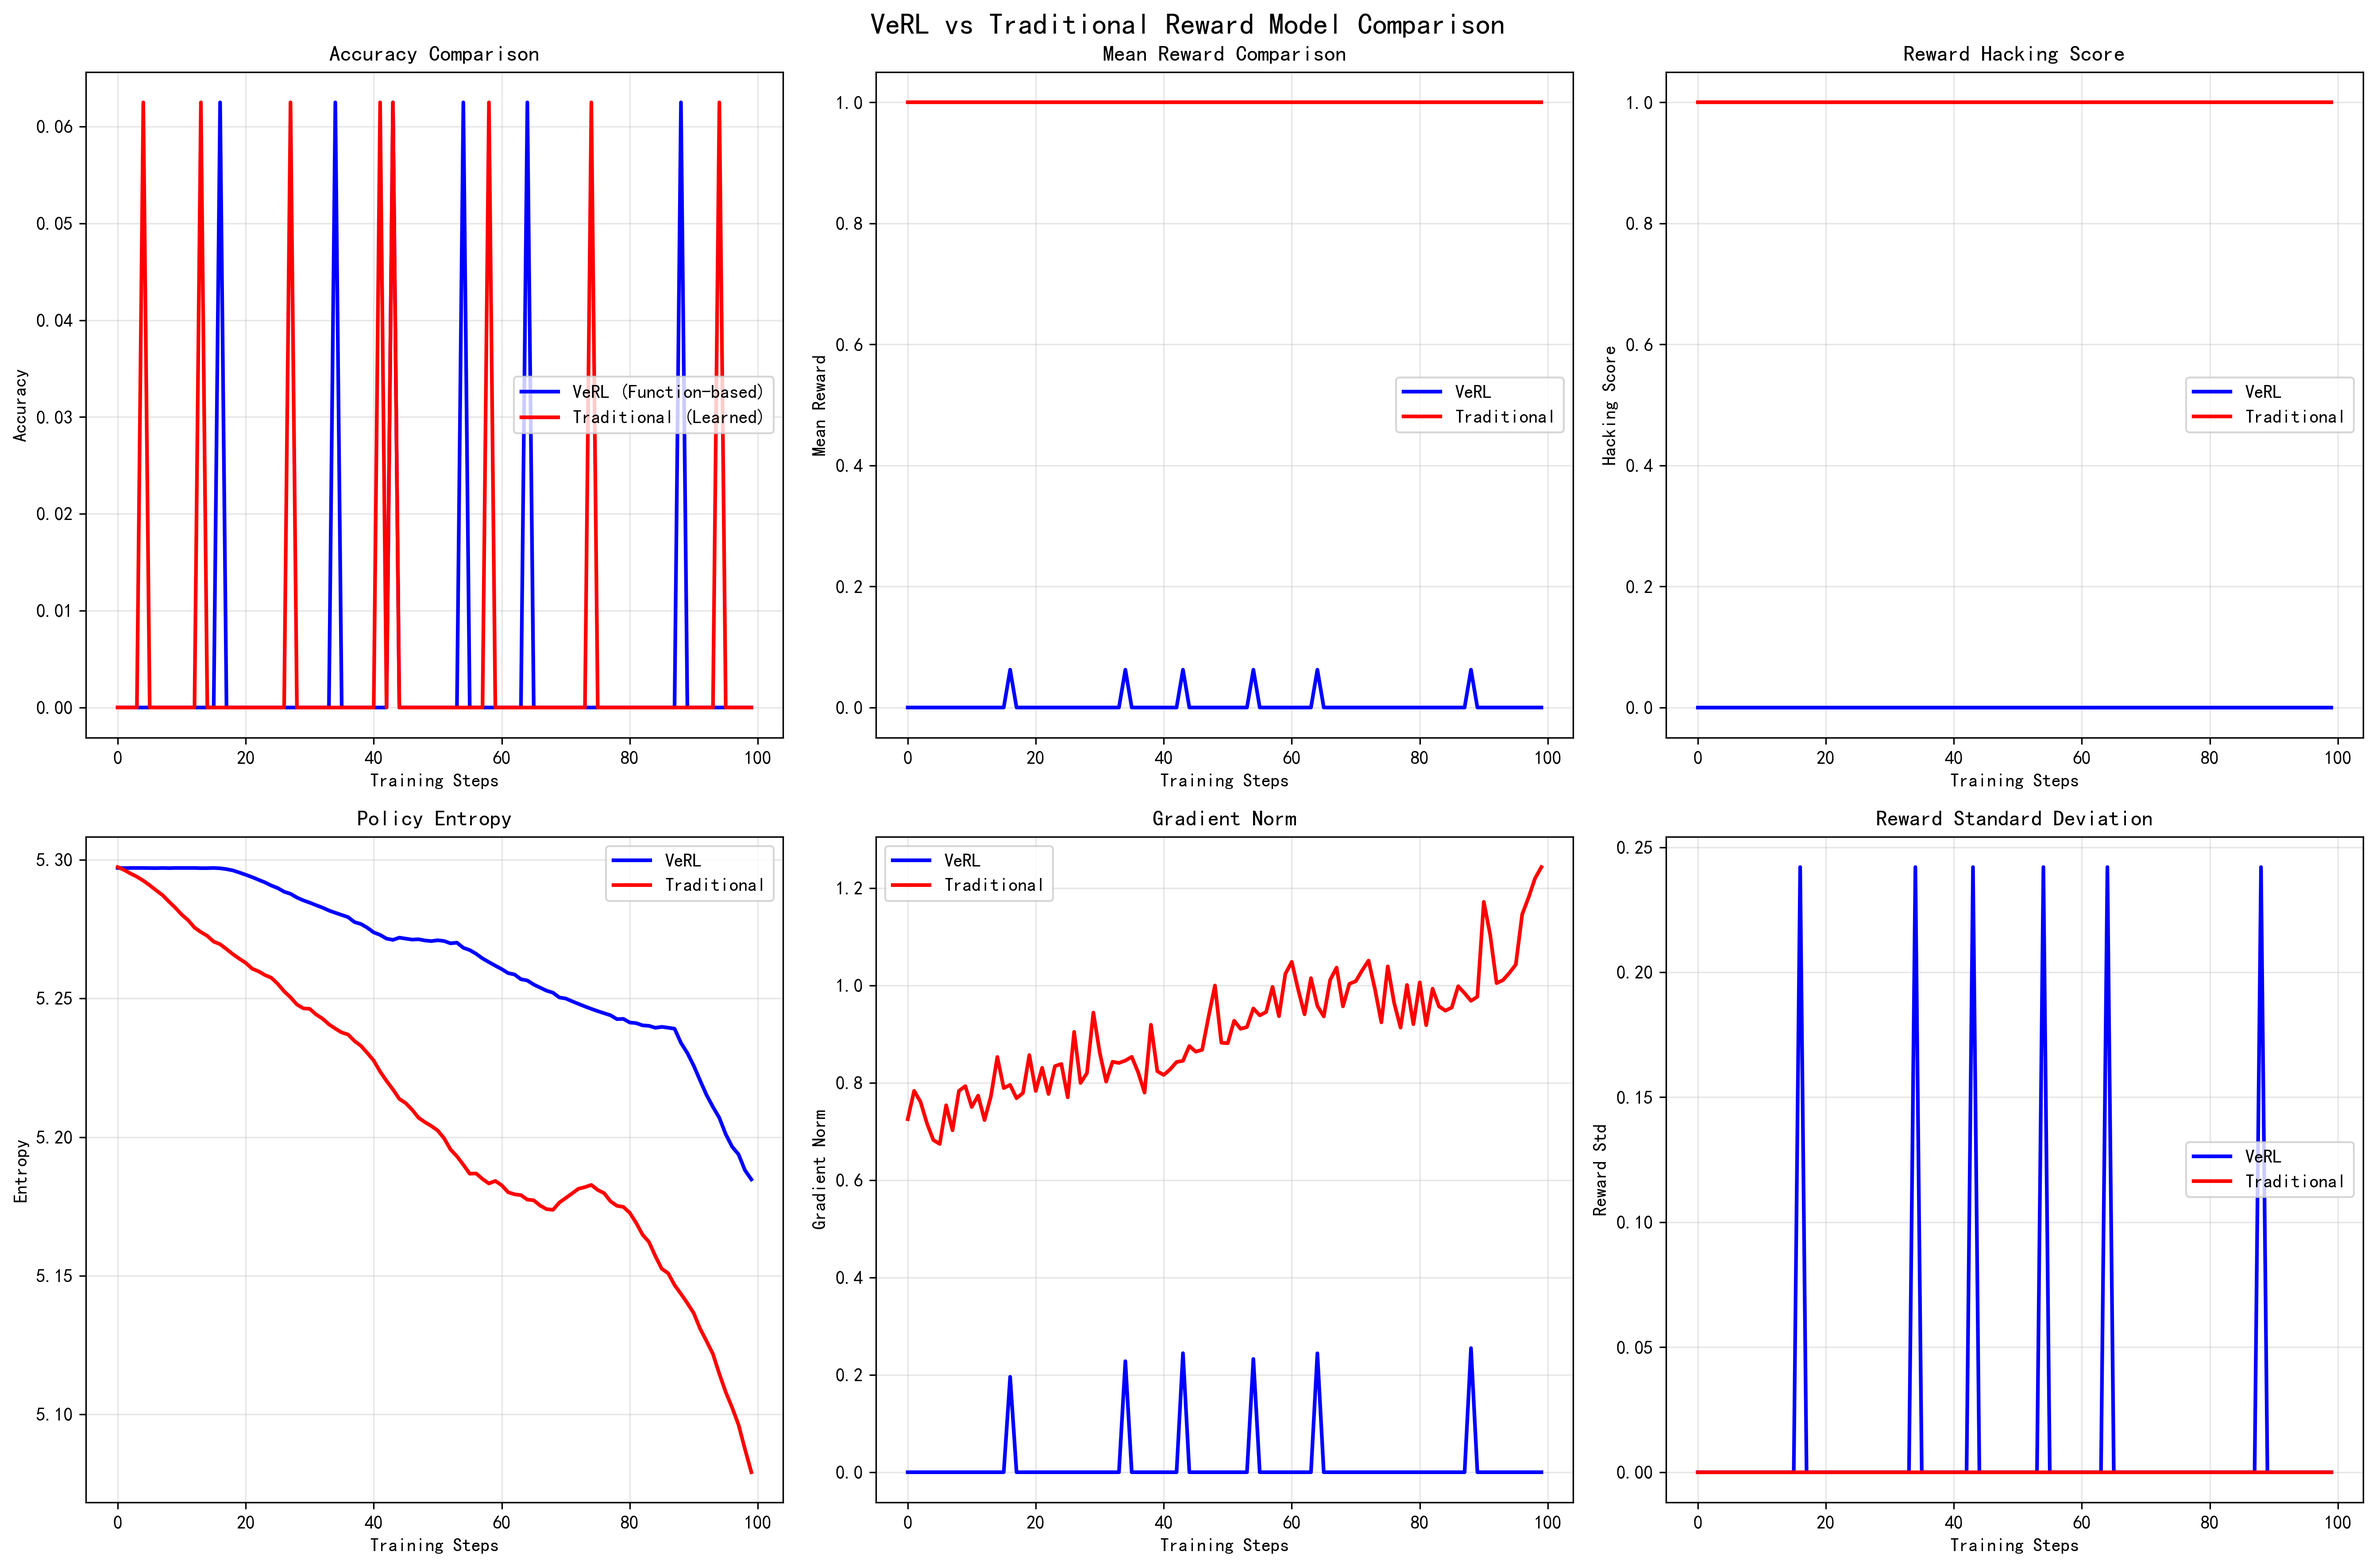
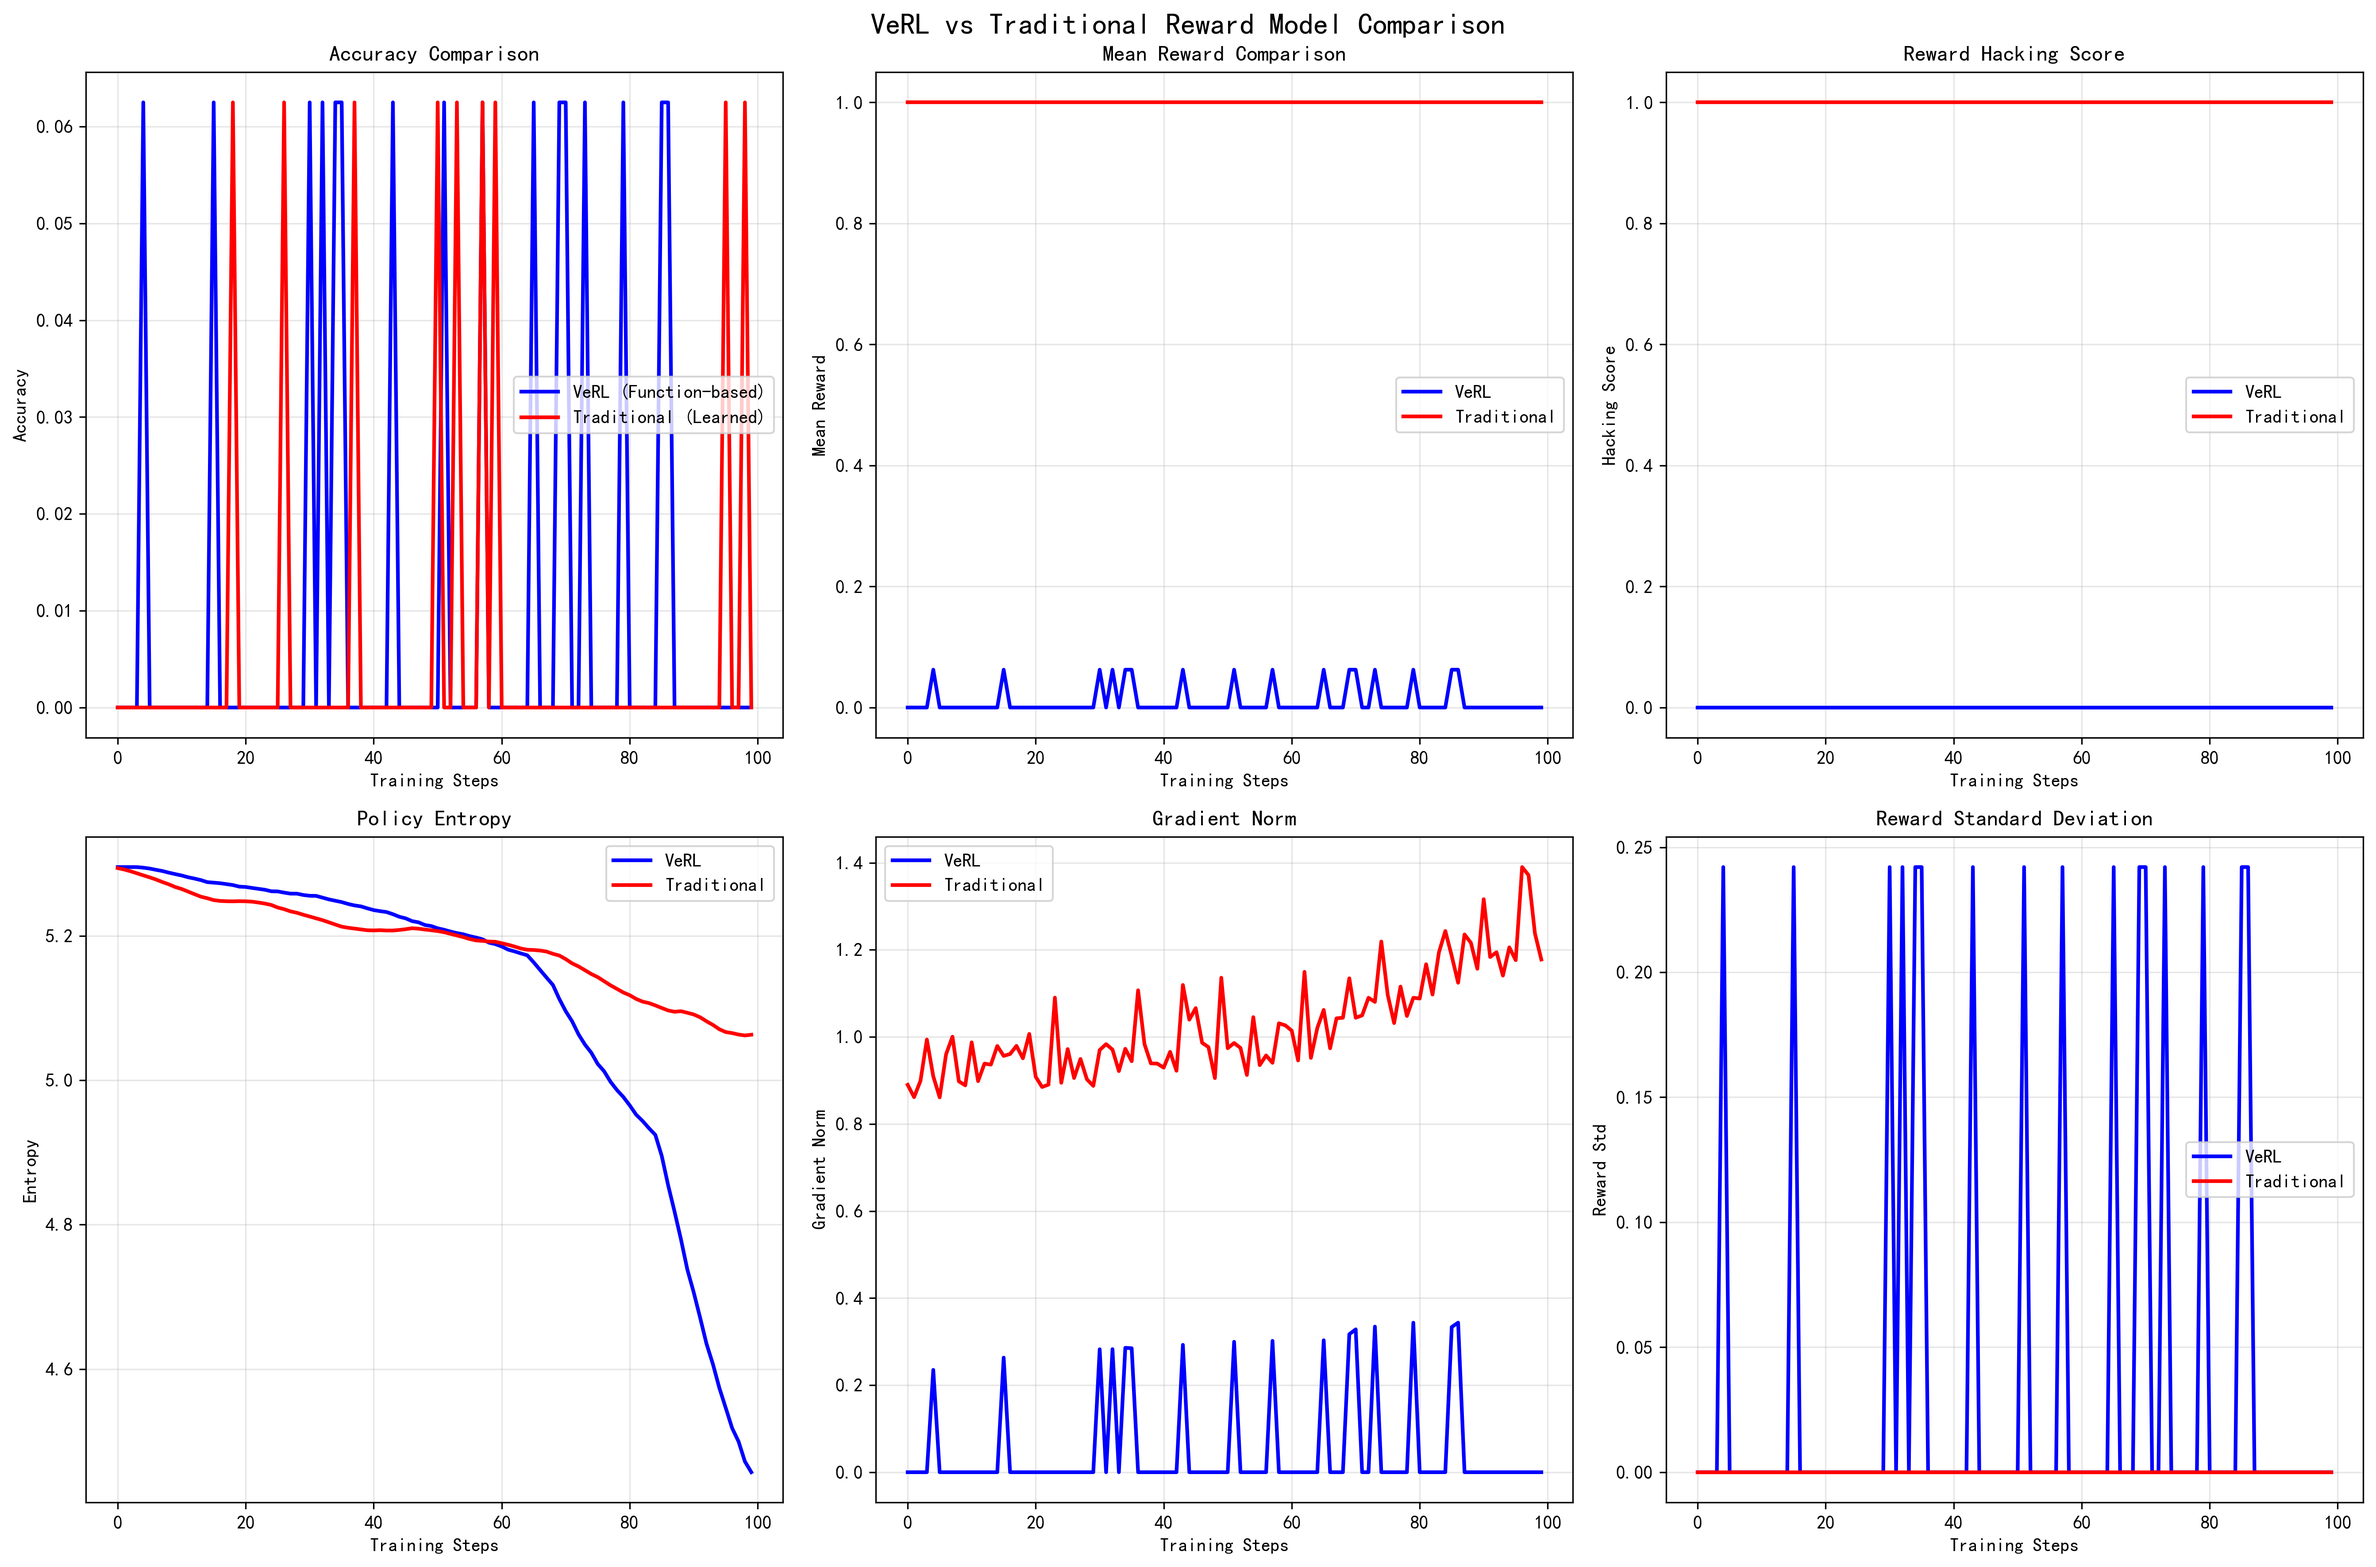
⚡ 优化Lab06 VeRL实验预训练性能

diff --git a/reinforcement-learning/lab06-可验证强化学习VeRL/verl_demo.py b/reinforcement-learning/lab06-可验证强化学习VeRL/verl_demo.py
@@ -349,9 +349,9 @@ class VeRLTrainer:
         """预训练学习型奖励模型（引入偏见）"""
         print("📚 预训练学习型奖励模型（注入偏见）...")
         
-        # 创建有偏见的训练数据
+        # 创建有偏见的训练数据（减少数据量提升速度）
         training_data = []
-        for _ in range(1000):
+        for _ in range(200):  # 减少到200个样本
             problem = self.env.generate_problem()
             correct_answer = self.env.get_current_answer()
             
@@ -364,17 +364,36 @@ class VeRLTrainer:
                 correct_output = f"The answer is {correct_answer}"
                 training_data.append((correct_output, 1.0))
         
-        # 简单训练（这里简化处理）
+        print(f"⚙ 开始训练奖励模型（{len(training_data)}个样本）...")
+        
+        # 优化训练过程：批量训练
         optimizer = torch.optim.Adam(self.reward_function.parameters(), lr=1e-3)
-        for epoch in range(50):
+        batch_size = 32  # 批量处理
+        
+        for epoch in range(10):  # 减少到10个epoch
             total_loss = 0
-            for output, target_reward in training_data:
+            # 按批次处理
+            for i in range(0, len(training_data), batch_size):
+                batch = training_data[i:i+batch_size]
+                
                 optimizer.zero_grad()
-                predicted_reward = self.reward_function.forward(output)
-                loss = F.mse_loss(predicted_reward, torch.tensor(target_reward))
-                loss.backward()
+                batch_loss = 0
+                
+                # 批量计算损失
+                for output, target_reward in batch:
+                    predicted_reward = self.reward_function.forward(output)
+                    loss = F.mse_loss(predicted_reward, torch.tensor(target_reward))
+                    batch_loss += loss
+                
+                # 平均损失
+                batch_loss = batch_loss / len(batch)
+                batch_loss.backward()
                 optimizer.step()
-                total_loss += loss.item()
+                total_loss += batch_loss.item()
+            
+            # 显示训练进度
+            if (epoch + 1) % 3 == 0:
+                print(f"  📊 Epoch {epoch+1}/10, Loss: {total_loss/len(training_data)*batch_size:.4f}")
         
         print(f"✅ 学习型奖励模型训练完成，已注入偏见")
     
